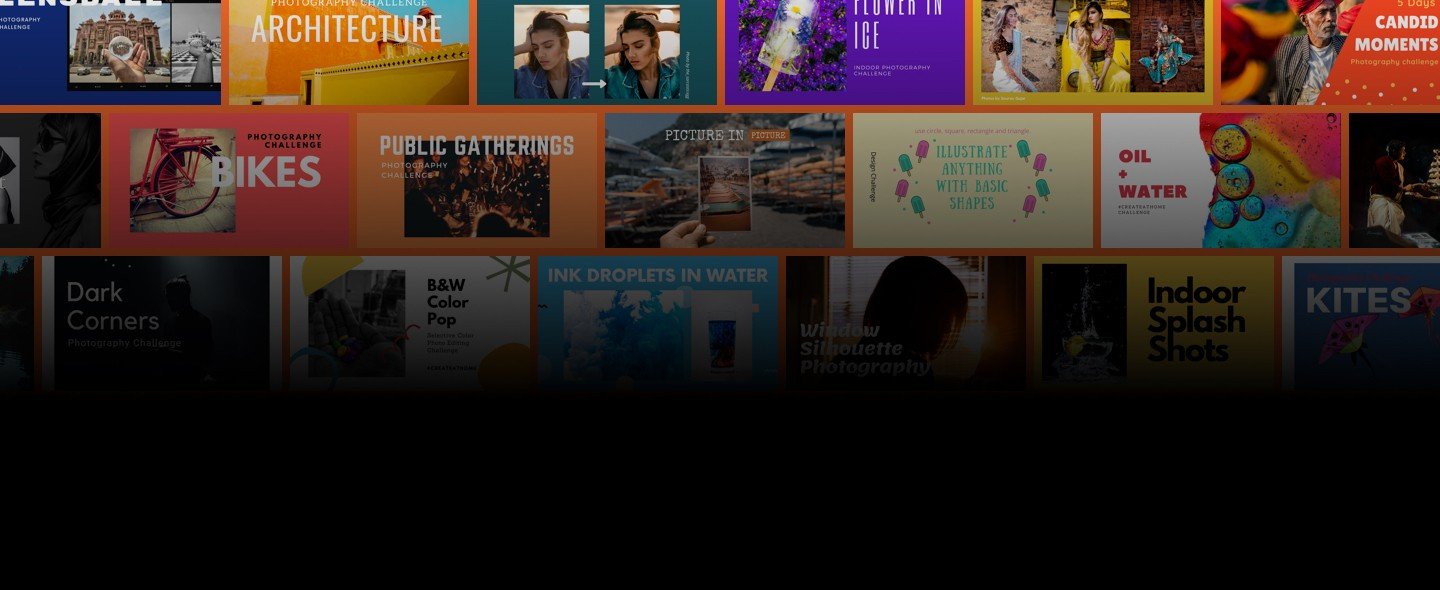
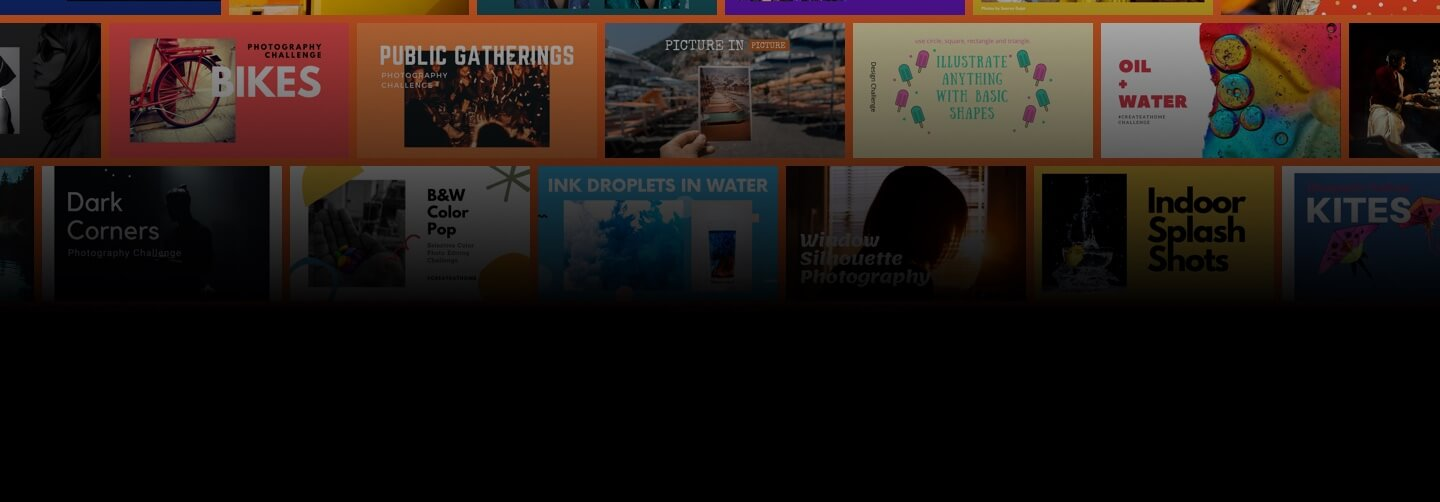
Updates Hero section

diff --git a/src/components/Home/sections/Hero.js b/src/components/Home/sections/Hero.js
@@ -1,5 +1,6 @@
 import React from 'react';
 import bgImage from './img/hero_bg.jpg'
+import heroPhone from './img/hero_phone.png'
 
 const Hero = (props) => {
 
@@ -8,50 +9,71 @@ const Hero = (props) => {
       <div
         className="py-48 md:py-68 bg-cover bg-center"
         style={{
-        backgroundImage: `url(${bgImage})`
-      }}></div>
-      <div className="max-w-5xl mx-auto text-white text-center">
-        <div className="flex flex-col sm:flex-row items-center justify-center">
-          <div className="-mt-72">
-            <h1
-              className="font-black text-4xl sm:text-4xl md:text-5xl italic leading-tight px-4">Work on creative ideas designed by experts</h1>
+          backgroundImage: `url(${bgImage})`,
+        }}
+      ></div>
+      <div className="max-w-6xl mx-auto text-white text-center lg:text-left hero-content">
+        <div className="flex flex-col sm:flex-row items-center justify-center px-8 md:px-12 xl:px-0">
+          <div className="">
+            <h1 className="font-black text-4xl sm:text-4xl md:text-5xl italic leading-tight">
+              GoSocial, for the artist in you
+            </h1>
+            <p className="text-lg sm:text-xl leading-tight mt-4 md:pr-8">
+              Social media for creators to create, learn, and grow! Find
+              inspiration to create in the challenges by experts, improve on the
+              go, and earn points.
+            </p>
 
-            <div className="mt-16 text-center">
+            <div className="mt-16 flex sm:block flex-col sm:flex-row">
               <a
                 href="https://play.google.com/store/apps/details?id=com.go.social.prod&referrer=utm_source%3Dgetgosocial.app%26utm_medium%3Dbutton%26utm_term%3Dget%252Bit%252Bon%252Bplaystore%26utm_campaign%3Dlanding_page"
                 className="text-white shadow sm:shadow-none mt-4 md:mt-0 flex-grow bg-primary py-4 px-6 rounded cursor-pointer"
-                target="__new">
+                target="__new"
+              >
                 <svg
                   className="inline mr-2"
                   width="24"
                   height="24"
                   xmlns="http://www.w3.org/2000/svg"
                   fillRule="evenodd"
-                  clipRule="evenodd">
+                  clipRule="evenodd"
+                >
                   <path
                     fill="#fff"
-                    d="M1.571 23.664l10.531-10.501 3.712 3.701-12.519 6.941a1.563 1.563 0 01-1.532-.011l-.192-.13zm9.469-11.56L1 22.115V2.093l10.04 10.011zm6.274-4.137l4.905 2.719c.482.268.781.77.781 1.314s-.299 1.046-.781 1.314l-5.039 2.793-4.015-4.003 4.149-4.137zM1.46.433A1.563 1.563 0 013.295.195L15.948 7.21l-3.846 3.835L1.46.433z"/>
+                    d="M1.571 23.664l10.531-10.501 3.712 3.701-12.519 6.941a1.563 1.563 0 01-1.532-.011l-.192-.13zm9.469-11.56L1 22.115V2.093l10.04 10.011zm6.274-4.137l4.905 2.719c.482.268.781.77.781 1.314s-.299 1.046-.781 1.314l-5.039 2.793-4.015-4.003 4.149-4.137zM1.46.433A1.563 1.563 0 013.295.195L15.948 7.21l-3.846 3.835L1.46.433z"
+                  />
                 </svg>
                 <span>Install Now</span>
               </a>
+
+              <a
+                href="https://docs.google.com/forms/d/e/1FAIpQLScygrmIizhlszWnHMpmzJWHoznGO6Rk-v7g0Un6jZRGhkMihA/viewform?usp=sf_link"
+                className="sm:ml-4 text-primary shadow sm:shadow-none mt-4 md:mt-0 flex-grow bg-white py-4 px-6 rounded cursor-pointer"
+                target="__new"
+              >
+                <span>Join iOS Invite list</span>
+              </a>
             </div>
-            <div className="mt-20 hidden sm:block">
+            <div className="mt-20 hidden sm:block text-center lg:text-left  md:mr-0">
               <svg
                 onClick={props.executeScroll}
-                className="mx-auto cursor-pointer"
+                className="cursor-pointer inline-block"
                 width="42"
                 height="42"
-                xmlns="http://www.w3.org/2000/svg">
+                xmlns="http://www.w3.org/2000/svg"
+              >
                 <g transform="translate(1 1)" fill="none" fillRule="evenodd">
-                  <circle stroke="#FFF" cx="20" cy="20" r="20"/>
+                  <circle stroke="#FFF" cx="20" cy="20" r="20" />
                   <path
                     fill="#FFF"
                     fillRule="nonzero"
-                    d="M12.707 15.293l-1.414 1.414L20 25.414l8.707-8.707-1.414-1.414L20 22.586z"/>
+                    d="M12.707 15.293l-1.414 1.414L20 25.414l8.707-8.707-1.414-1.414L20 22.586z"
+                  />
                 </g>
               </svg>
             </div>
           </div>
+          <img className="hidden lg:block" src={heroPhone} alt="App Screenshot" />
         </div>
       </div>
     </section>

diff --git a/src/styles/global.css b/src/styles/global.css
@@ -5,16 +5,16 @@
 @tailwind utilities;
 
 body {
-  font-family: 'Roboto', sans-serif;
+  font-family: "Roboto", sans-serif;
 }
 
 .blog-card-content {
   word-break: break-word;
-  flex:2
+  flex: 2;
 }
 
 .about-dots {
-  left: calc(((100vw - 1024px)/2) - 144px);
+  left: calc(((100vw - 1024px) / 2) - 144px);
   top: 64px;
 }
 
@@ -31,7 +31,11 @@ main.content {
   min-width: 100%;
 }
 
-@media screen and (max-width:1024px) {
+.hero .hero-content {
+  margin-top: -500px;
+}
+
+@media screen and (max-width: 1024px) {
   .cta-dots {
     right: 24px;
     top: 24px;
@@ -40,16 +44,29 @@ main.content {
   main.content {
     margin-top: 68px;
   }
+
+  .hero .hero-content {
+    margin-top: -300px;
+  }
 }
 
-@media screen and (max-width:768px) {
+@media screen and (max-width: 768px) {
   main.content {
     margin-top: 62px;
   }
+
+  .hero .hero-content {
+    margin-top: -250px;
+  }
 }
 
-@media screen and (max-width:640px) {
+@media screen and (max-width: 640px) {
   main.content {
     margin-top: 46px;
   }
+
+  .hero .hero-content {
+    /* margin-top: -150px; */
+  }
+
 }
